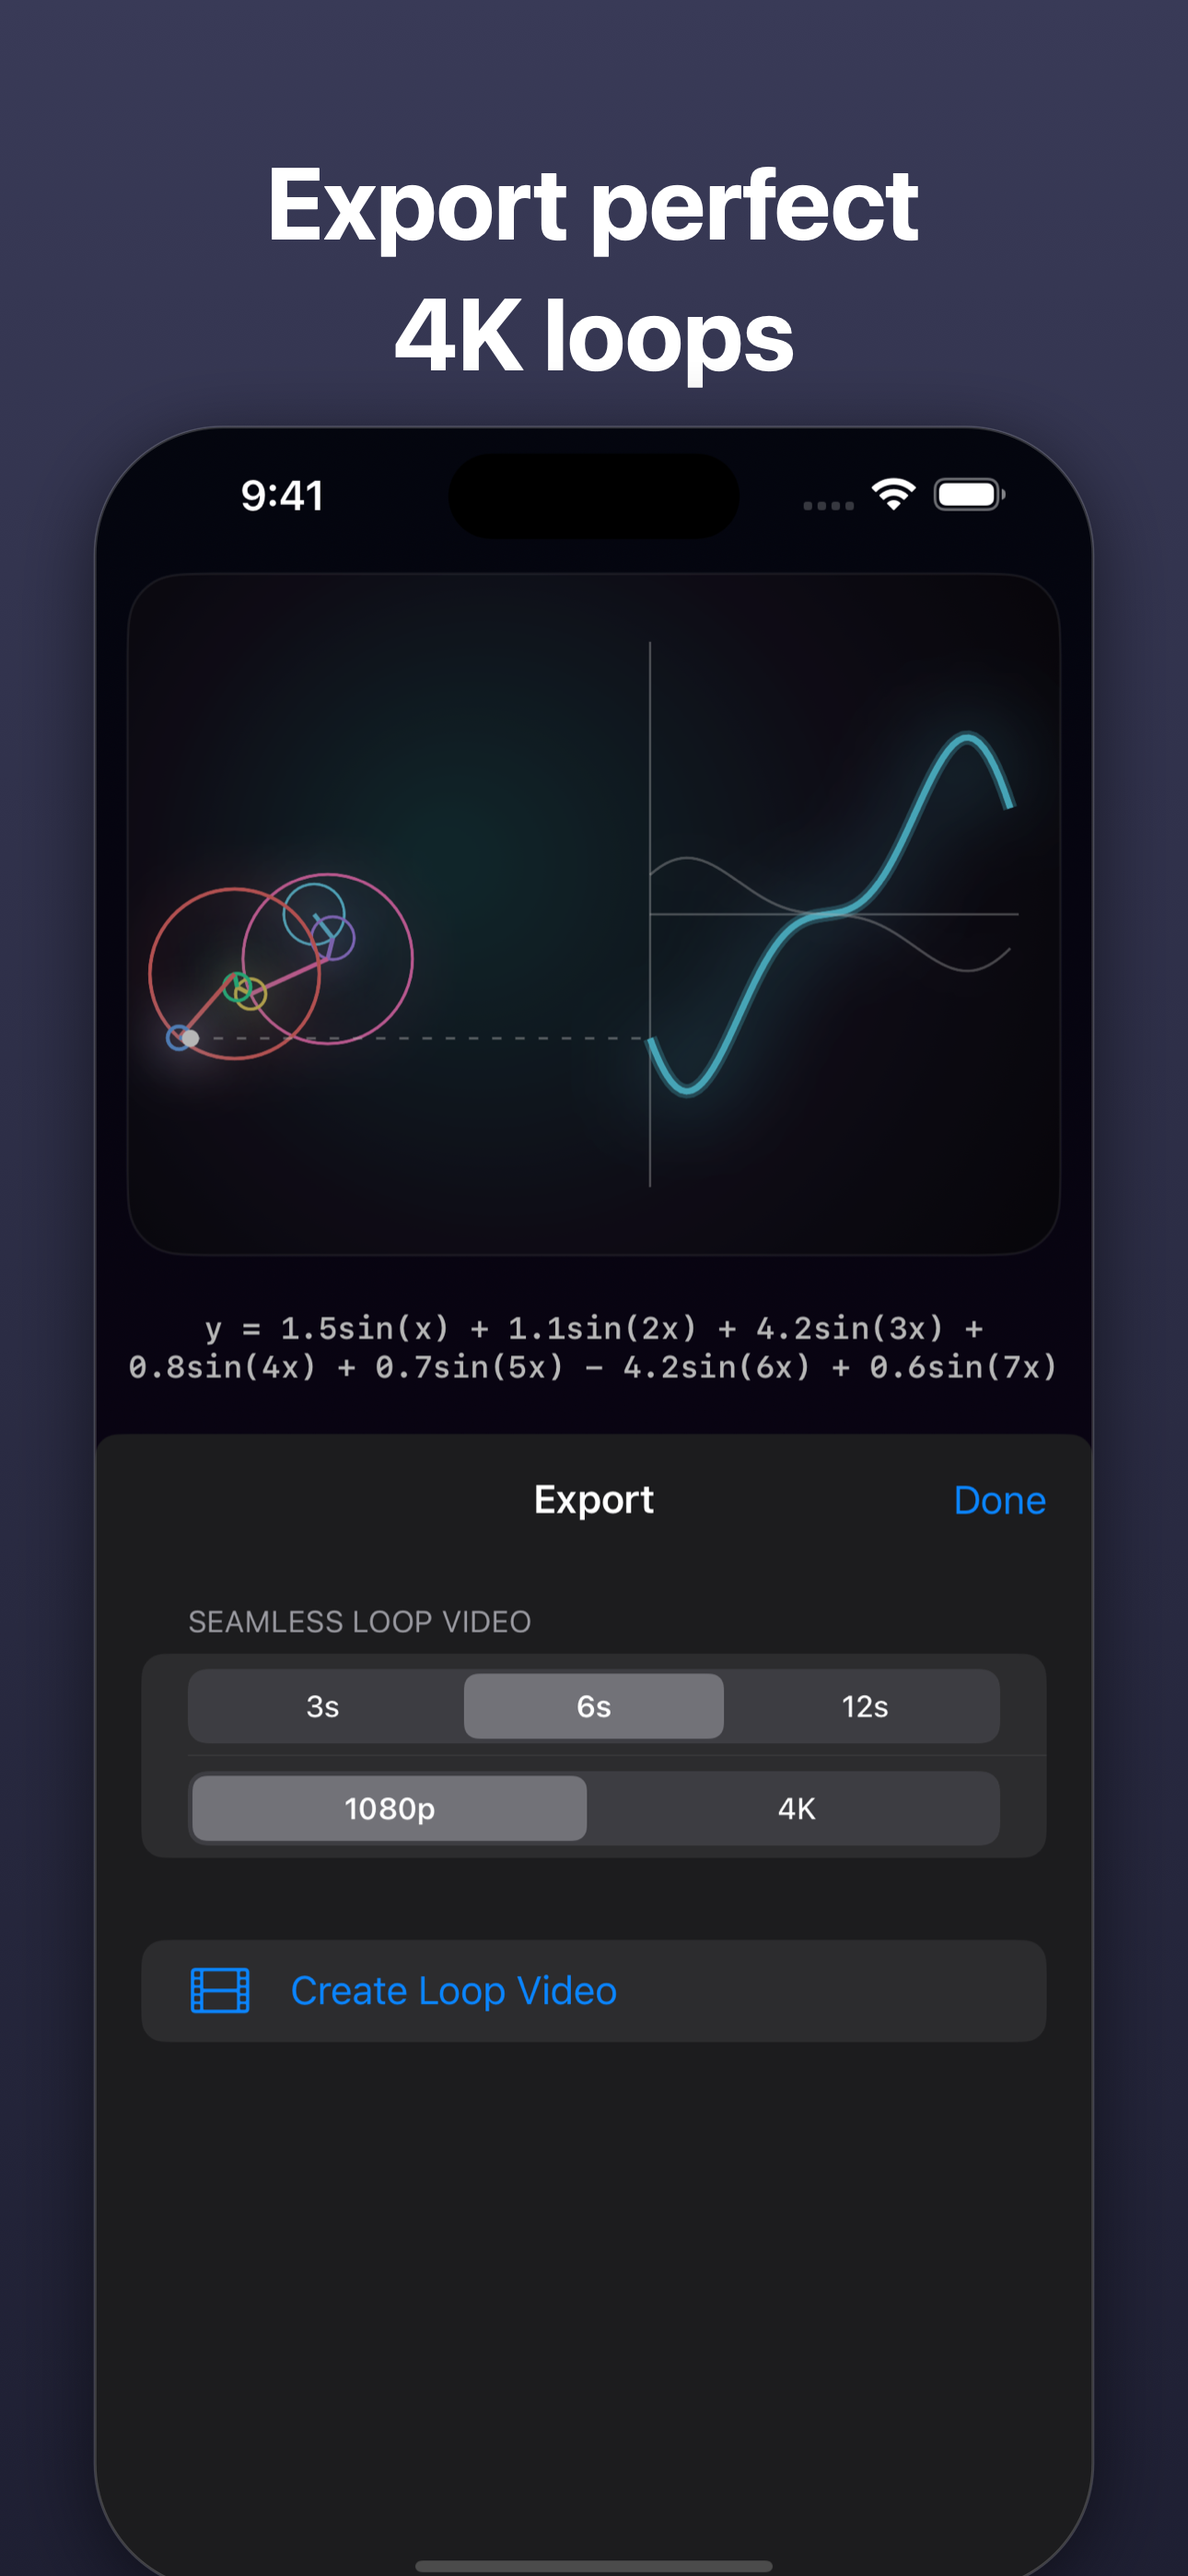
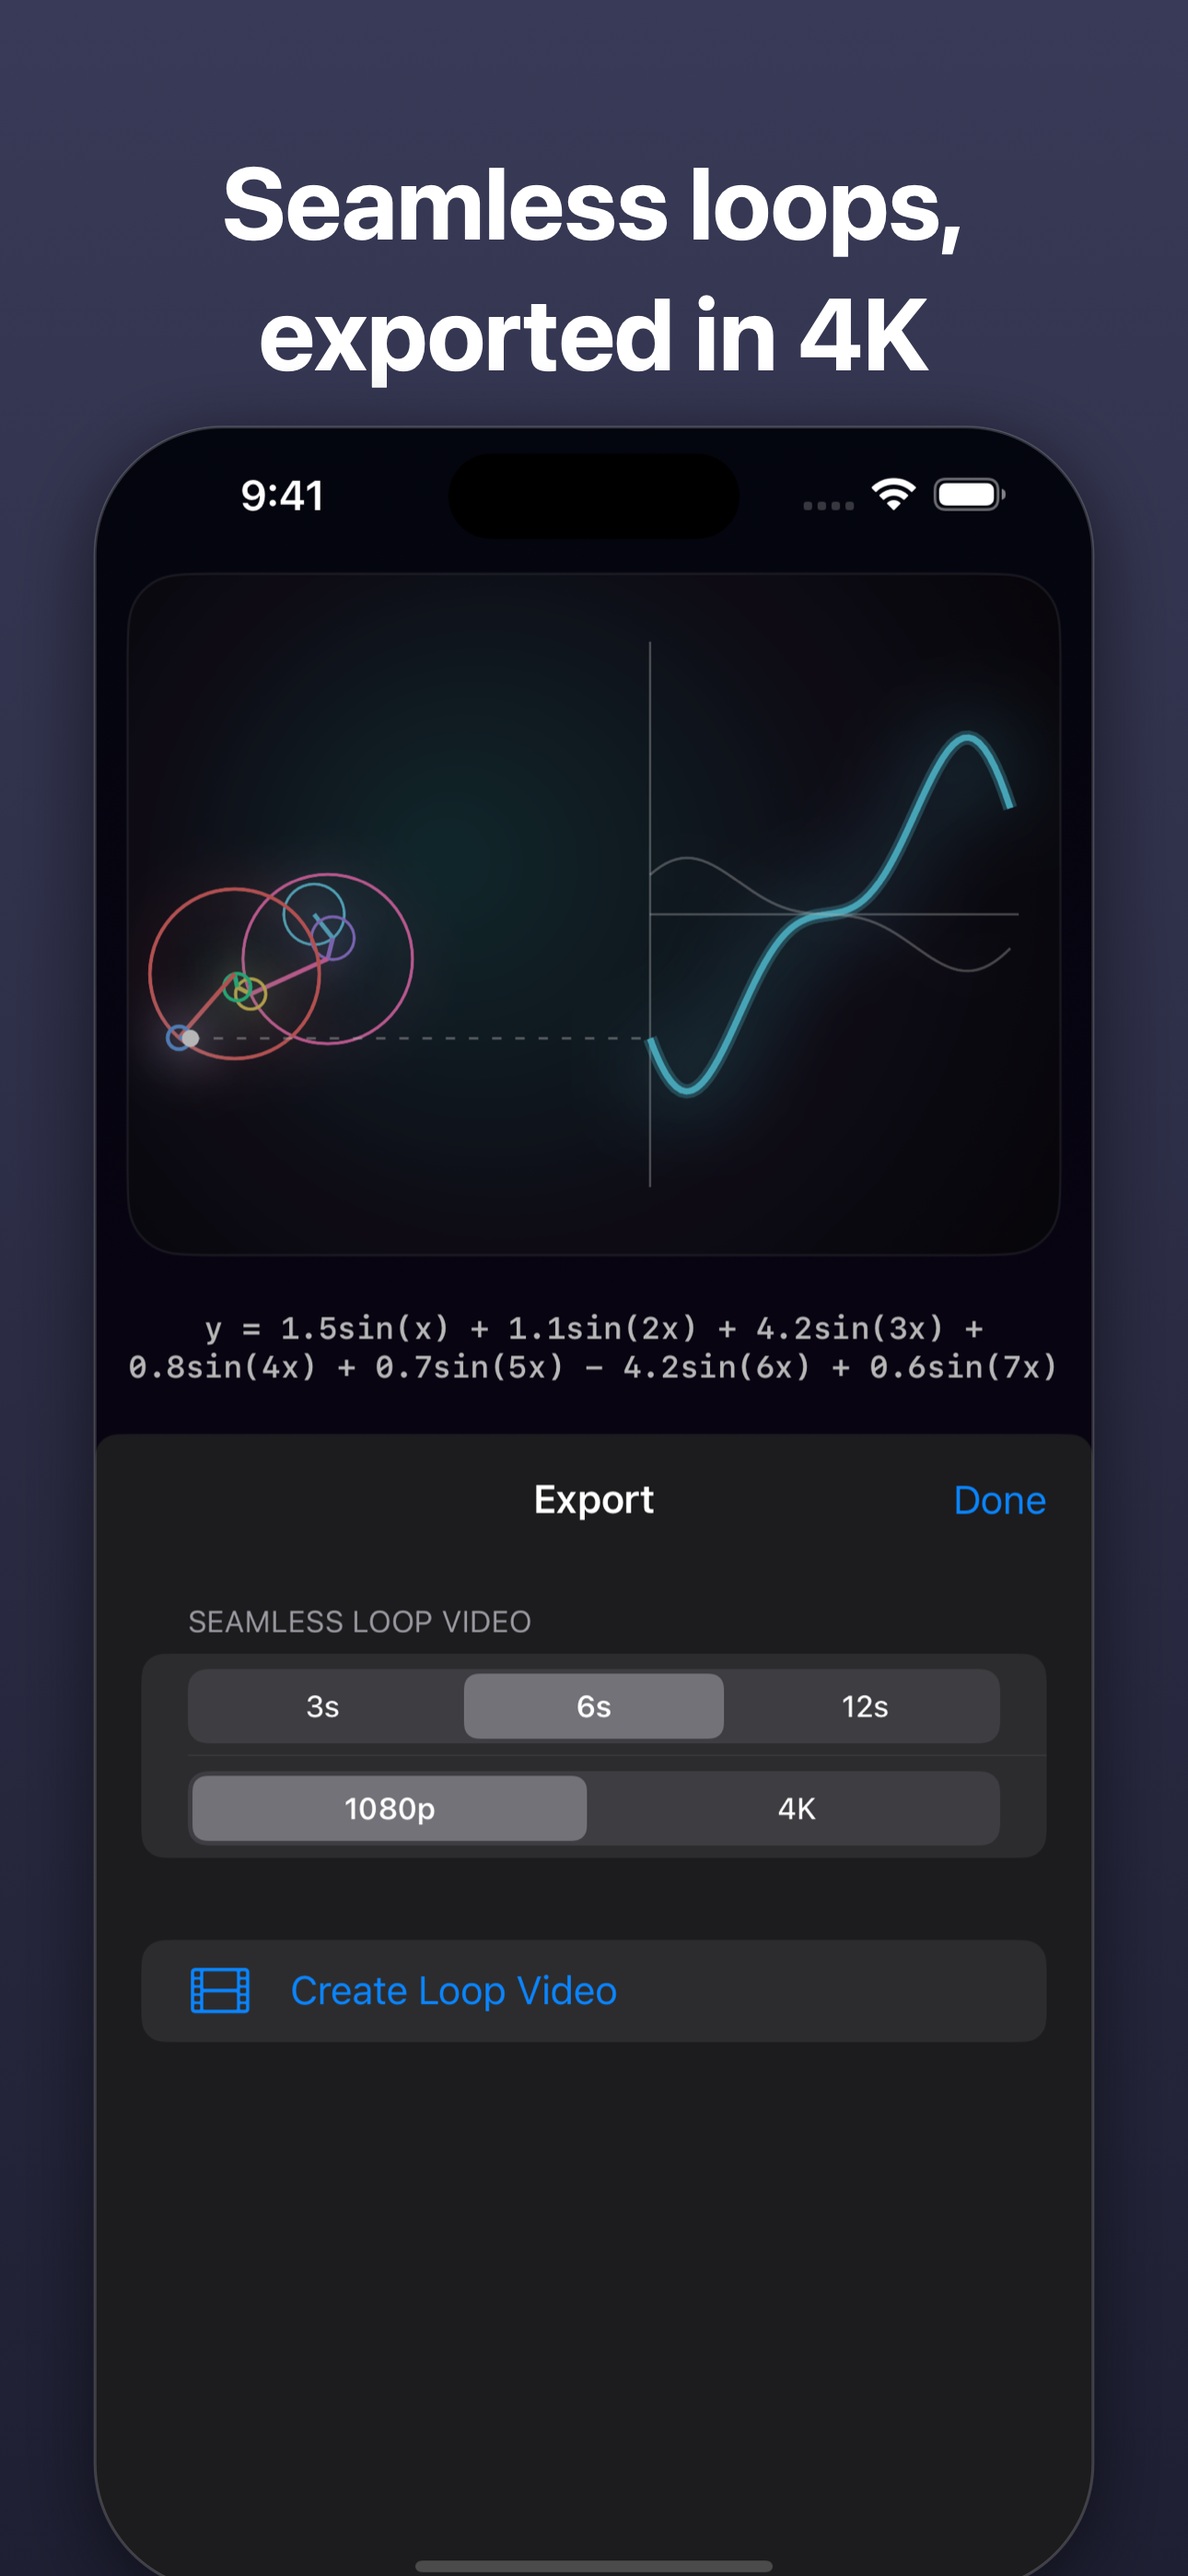
store: 説明文・キーワード・スクショ04の書き直し(AI感除去+ASO見直し)

Changed region(s): [[0.186, 0.0622, 0.8062, 0.1556]]

diff --git a/store/ASO_NOTES.md b/store/ASO_NOTES.md
@@ -16,5 +16,17 @@
 1. メイン画面(再生中・Neon Cyan)— 「数式が音楽になる」/ "Math becomes music"
 2. 倍音スライダー操作 — 「スライダー8本で自分の数式を作る」/ "Shape your own formula"
 3. スケール選択 — 「動かすだけで、ちゃんと音楽になる」/ "Always in key"
-4. 書き出しシート — 「完璧ループを 4K で書き出し」/ "Export perfect 4K loops"
+4. 書き出しシート — 「つなぎ目のないループ動画を4Kで」/ "Seamless loops, exported in 4K"(2026-07-20 変更)
 5. 別テーマ(Magenta Pop)— 「気分で選べる4つのネオン」/ "Four neon themes"
+
+## 2026-07-20 「AI 感」除去+キーワード見直し(ユーザー指摘対応、ASC 反映済み)
+- 指摘: 説明・スクショの文言が AI 生成っぽい。「完璧ループ」が不自然。
+- 書き直し方針(今後もこの規律で書く):
+  - 「AがBを描き、BがCを描き…」の連鎖レトリック、「新感覚」「〜を奏でる」「数学的に完璧」「安心して使える」型の宣伝語を避ける
+  - 動作の事実を です・ます で淡々と書く(「適当に動かしても音を外しません」等)
+  - 「完璧ループ」→「つなぎ目のない(ループ)」/ en "mathematically perfect" → "no visible seam"
+- keywords 変更(理由付き):
+  - ja: エピサイクル→動画素材(検索ボリュームほぼゼロの専門語を、ループ素材を探す実需要語に)/ 理系→音遊び / 音→リズム(初回設計時から実ファイルは リズム 採用)
+  - en: stem→oscilloscope(oscilloscope music はニッチだが実在するコミュニティ語。epicycle は 3Blue1Brown 圏の検索があるため維持)
+- 競合ページ確認(2026-07-20): Fourier Series Visualiser / Epicycles は ja 未ローカライズ → 日本語検索はほぼ無風。Vibely は実績数字+用途(TikTok/Reels/Spotify Canvas)で訴求 → 機能改善アイデアは docs/APP_STORE.md に記録。
+- en promotional_text の "watermark-free" は store_lint が「free」を価格表現として検出 → "with no watermark" に言い換え(以後も free を含む複合語に注意)。

diff --git a/docs/APP_STORE.md b/docs/APP_STORE.md
@@ -22,13 +22,21 @@
 3. **数学的に**シームレスな 3/6/12 秒ループ MP4(透かしなし・画面録画でなくオフライン再レンダリング)
 4. 買い切り・広告なし・トラッキングなし・オフライン完結
 
+## 機能改善アイデア(2026-07-20 ASO 競合調査より、優先度順)
+
+1. **9:16 縦動画書き出し** — TikTok/Reels/Spotify Canvas 用。Canvas は縦・3〜8 秒ループが仕様で、既存の 6 秒ループがそのまま刺さる。競合 Vibely はこの用途訴求(Canvas/Shorts)で TikTok 実績を伸ばしている
+2. **書き出し動画への音声トラック同梱**(未対応なら)— 競合ビジュアライザーは音楽入り動画が前提。対応済みならストア文言・スクショで明示する
+3. **数式の共有**(URL/QR でプリセットを渡す)— 受け取った人がアプリに誘導される拡散ループ
+4. **長尺書き出し**(1〜10 分、作業用 BGM 用途)— STAELLA は「1曲まるごと自動録画」を訴求点にしている
+5. **日本語ローカライズの優位維持** — Fourier 系競合(Visualiser/Epicycles)は ja ページ未ローカライズ。日本語検索は現状ほぼ無風で、ja メタデータの質がそのまま順位に効く
+
 ## 価格戦略
 
 - **買い切り ¥600 / $3.99**(Bloom と同帯)
 - サブスク疲れ層に「透かしなし・追加課金なし」を明示
 - 学割/セールは教育系ハッシュタグ(#math #satisfying)が伸びるタイミングで
 
-## ストア メタデータ案
+## ストア メタデータ案(初期案 — 現行の正は `store/metadata/`。2026-07-20 に「AI 感」除去の書き直し・ASC 反映済み)
 
 ### 日本語
 
@@ -54,7 +62,7 @@
 1. メイン1画面 UI(再生中・Neon Cyan)+「数式が音楽になる」
 2. 倍音スライダー操作中(数式ラベルが変わる様子)
 3. スケールクオンタイズのメニュー+「ちゃんと音楽になる」
-4. 書き出しシート+「完璧ループを 4K で」
+4. 書き出しシート+「つなぎ目のないループ動画を4Kで」
 5. テーマ4種の比較グリッド
 
 ## 審査チェックリスト

diff --git a/done.md b/done.md
@@ -19,3 +19,8 @@
 - ビルド 1.0(1) を altool で直接アップロード(キーは ~/.private_keys に symlink 要)→ VALID → バージョンに紐付け
 - スクショ: builder が XCUITest 駆動で ja/en 各5枚撮影(1290×2796)→ store_frame 加工 → asc_upload_screenshots.py で ASC 反映
 - store/ 一式 + UITest ターゲットをコミット。残る人間作業: App Privacy(データ収集なし)設定と提出ボタンのみ
+## 2026/07/20 (ストア文言の AI 感除去+ASO 見直し)
+- ユーザー指摘「完璧ループ等が AI っぽい」→ ja/en の説明文・プロモ文・キーワードを書き直し(規律は store/ASO_NOTES.md 2026-07-20 参照)
+- スクショ 04(ja/en)を store_frame.swift で新キャプションに再合成(「つなぎ目のないループ動画を4Kで」/ "Seamless loops, exported in 4K")
+- store_lint PASS 後、asc_update_metadata.py + asc_upload_screenshots.py で ASC 反映(提出はしていない)
+- 競合ページ実査(Vibely/Fourier Series Visualiser)→ 機能改善アイデア 5 件を docs/APP_STORE.md に記録(筆頭: 9:16 縦動画書き出し = Spotify Canvas/Reels 用途)
